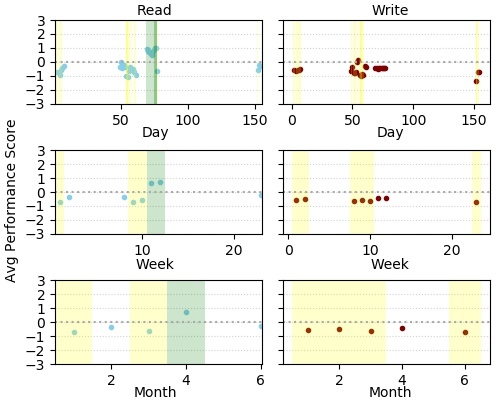
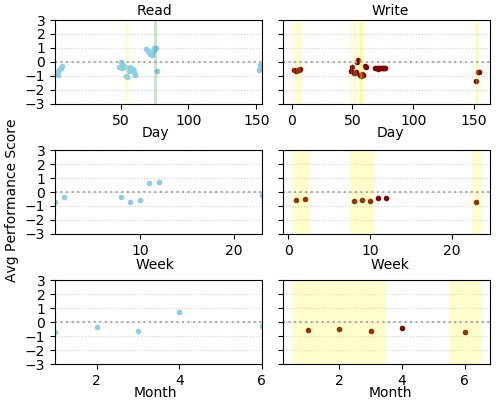
new shading

diff --git a/example/simple_user.py b/example/simple_user.py
@@ -248,13 +248,35 @@ for app in top_apps:
         #axes[n][0].scatter(x, y, marker='.', color='skyblue',label=op)
         #axes[n][0].set_ylim(-3, 3)
         for i in range(0,len(y)):
-            alpha = 0.1
-            for r in np.arange(0.5,3.5,.5):
-                alpha = alpha+0.1
-                if y[i]>r:
-                    axes[n][0].axvspan(x[i]-0.5, x[i]+0.5, alpha=alpha, color='green', lw=0, zorder=2)
-                elif y[i]<-r:
-                    axes[n][0].axvspan(x[i]-0.5, x[i]+0.5, alpha=alpha, color='yellow', lw=0, zorder=2)
+            alpha = 0.2
+            if y[i]>1:
+                axes[n][0].axvspan(x[i]-0.5, x[i]+0.5, alpha=alpha, color='green', lw=0, zorder=2)
+            elif y[i]<-1:
+                axes[n][0].axvspan(x[i]-0.5, x[i]+0.5, alpha=alpha, color='yellow', lw=0, zorder=2)
+            elif y[i]>0.5:
+                l = x[i]-1
+                while(l not in x and l>min(x)):
+                    l = l-1
+                r = x[i]+1
+                while(r not in x and r<max(x)):
+                    r = r+1
+                if l!=min(x) and r!=max(x) and y[l]>0.5 and y[r]>0.5:
+                    axes[n][0].axvspan(x[l]-0.5, x[r]+0.5, alpha=alpha, color='yellow', lw=0, zorder=2)
+            elif y[i]<-0.5:
+                l = x[i]-1
+                while(l not in x and l>min(x)):
+                    l = l-1
+                r = x[i]+1
+                while(r not in x and r<max(x)):
+                    r = r+1
+                if l!=min(x) and r!=max(x) and y[l]<-0.5 and y[r]<-0.5:
+                    axes[n][0].axvspan(x[l]-0.5, x[r]+0.5, alpha=alpha, color='yellow', lw=0, zorder=2)
+            #for r in np.arange(0.5,3.5,.5):
+            #    alpha = alpha+0.1
+            #    if y[i]>r:
+            #        axes[n][0].axvspan(x[i]-0.5, x[i]+0.5, alpha=alpha, color='green', lw=0, zorder=2)
+            #    elif y[i]<-r:
+            #        axes[n][0].axvspan(x[i]-0.5, x[i]+0.5, alpha=alpha, color='yellow', lw=0, zorder=2)
         axes[n][0].scatter(x, y, marker='.', color='skyblue',label=op, zorder=1)
         axes[n][0].set_ylim(-3, 3)
         axes[n][0].set_ylabel('')
@@ -275,13 +297,35 @@ for app in top_apps:
         #axes[n][1].scatter(x, y, marker='.', color='maroon',label=op)
         #axes[n][1].set_ylim(-3, 3)
         for i in range(0,len(y)):
-            alpha = 0.1
-            for r in np.arange(0.5,3.5,.5):
-                alpha = alpha+0.1
-                if y[i]>r:
-                    axes[n][1].axvspan(x[i]-0.5, x[i]+0.5, alpha=alpha, color='green', lw=0, zorder=2)
-                elif y[i]<-r:
-                    axes[n][1].axvspan(x[i]-0.5, x[i]+0.5, alpha=alpha, color='yellow', lw=0, zorder=2)
+            alpha = 0.2
+            if y[i]>1:
+                axes[n][1].axvspan(x[i]-0.5, x[i]+0.5, alpha=alpha, color='green', lw=0, zorder=2)
+            elif y[i]<-1:
+                axes[n][1].axvspan(x[i]-0.5, x[i]+0.5, alpha=alpha, color='yellow', lw=0, zorder=2)
+            elif y[i]>0.5:
+                l = x[i]-1
+                while(l not in x and l>min(x)):
+                    l = l-1
+                r = x[i]+1
+                while(r not in x and r<max(x)):
+                    r = r+1
+                if l!=min(x) and r!=max(x) and y[l]>0.5 and y[r]>0.5:
+                    axes[n][1].axvspan(x[l]-0.5, x[r]+0.5, alpha=alpha, color='yellow', lw=0, zorder=2)
+            elif y[i]<-0.5:
+                l = x[i]-1
+                while(l not in x and l>min(x)):
+                    l = l-1
+                r = x[i]+1
+                while(r not in x and r<max(x)):
+                    r = r+1
+                if l!=min(x) and r!=max(x) and y[l]<-0.5 and y[r]<-0.5:
+                    axes[n][1].axvspan(x[l]-0.5, x[r]+0.5, alpha=alpha, color='yellow', lw=0, zorder=2)
+            #for r in np.arange(0.5,3.5,.5):
+            #    alpha = alpha+0.1
+            #    if y[i]>r:
+            #        axes[n][1].axvspan(x[i]-0.5, x[i]+0.5, alpha=alpha, color='green', lw=0, zorder=2)
+            #    elif y[i]<-r:
+            #        axes[n][1].axvspan(x[i]-0.5, x[i]+0.5, alpha=alpha, color='yellow', lw=0, zorder=2)
         axes[n][1].scatter(x, y, marker='.', color='maroon',label=op, zorder=1)
         axes[n][1].set_ylim(-3, 3)
         axes[n][1].set_ylabel('')
